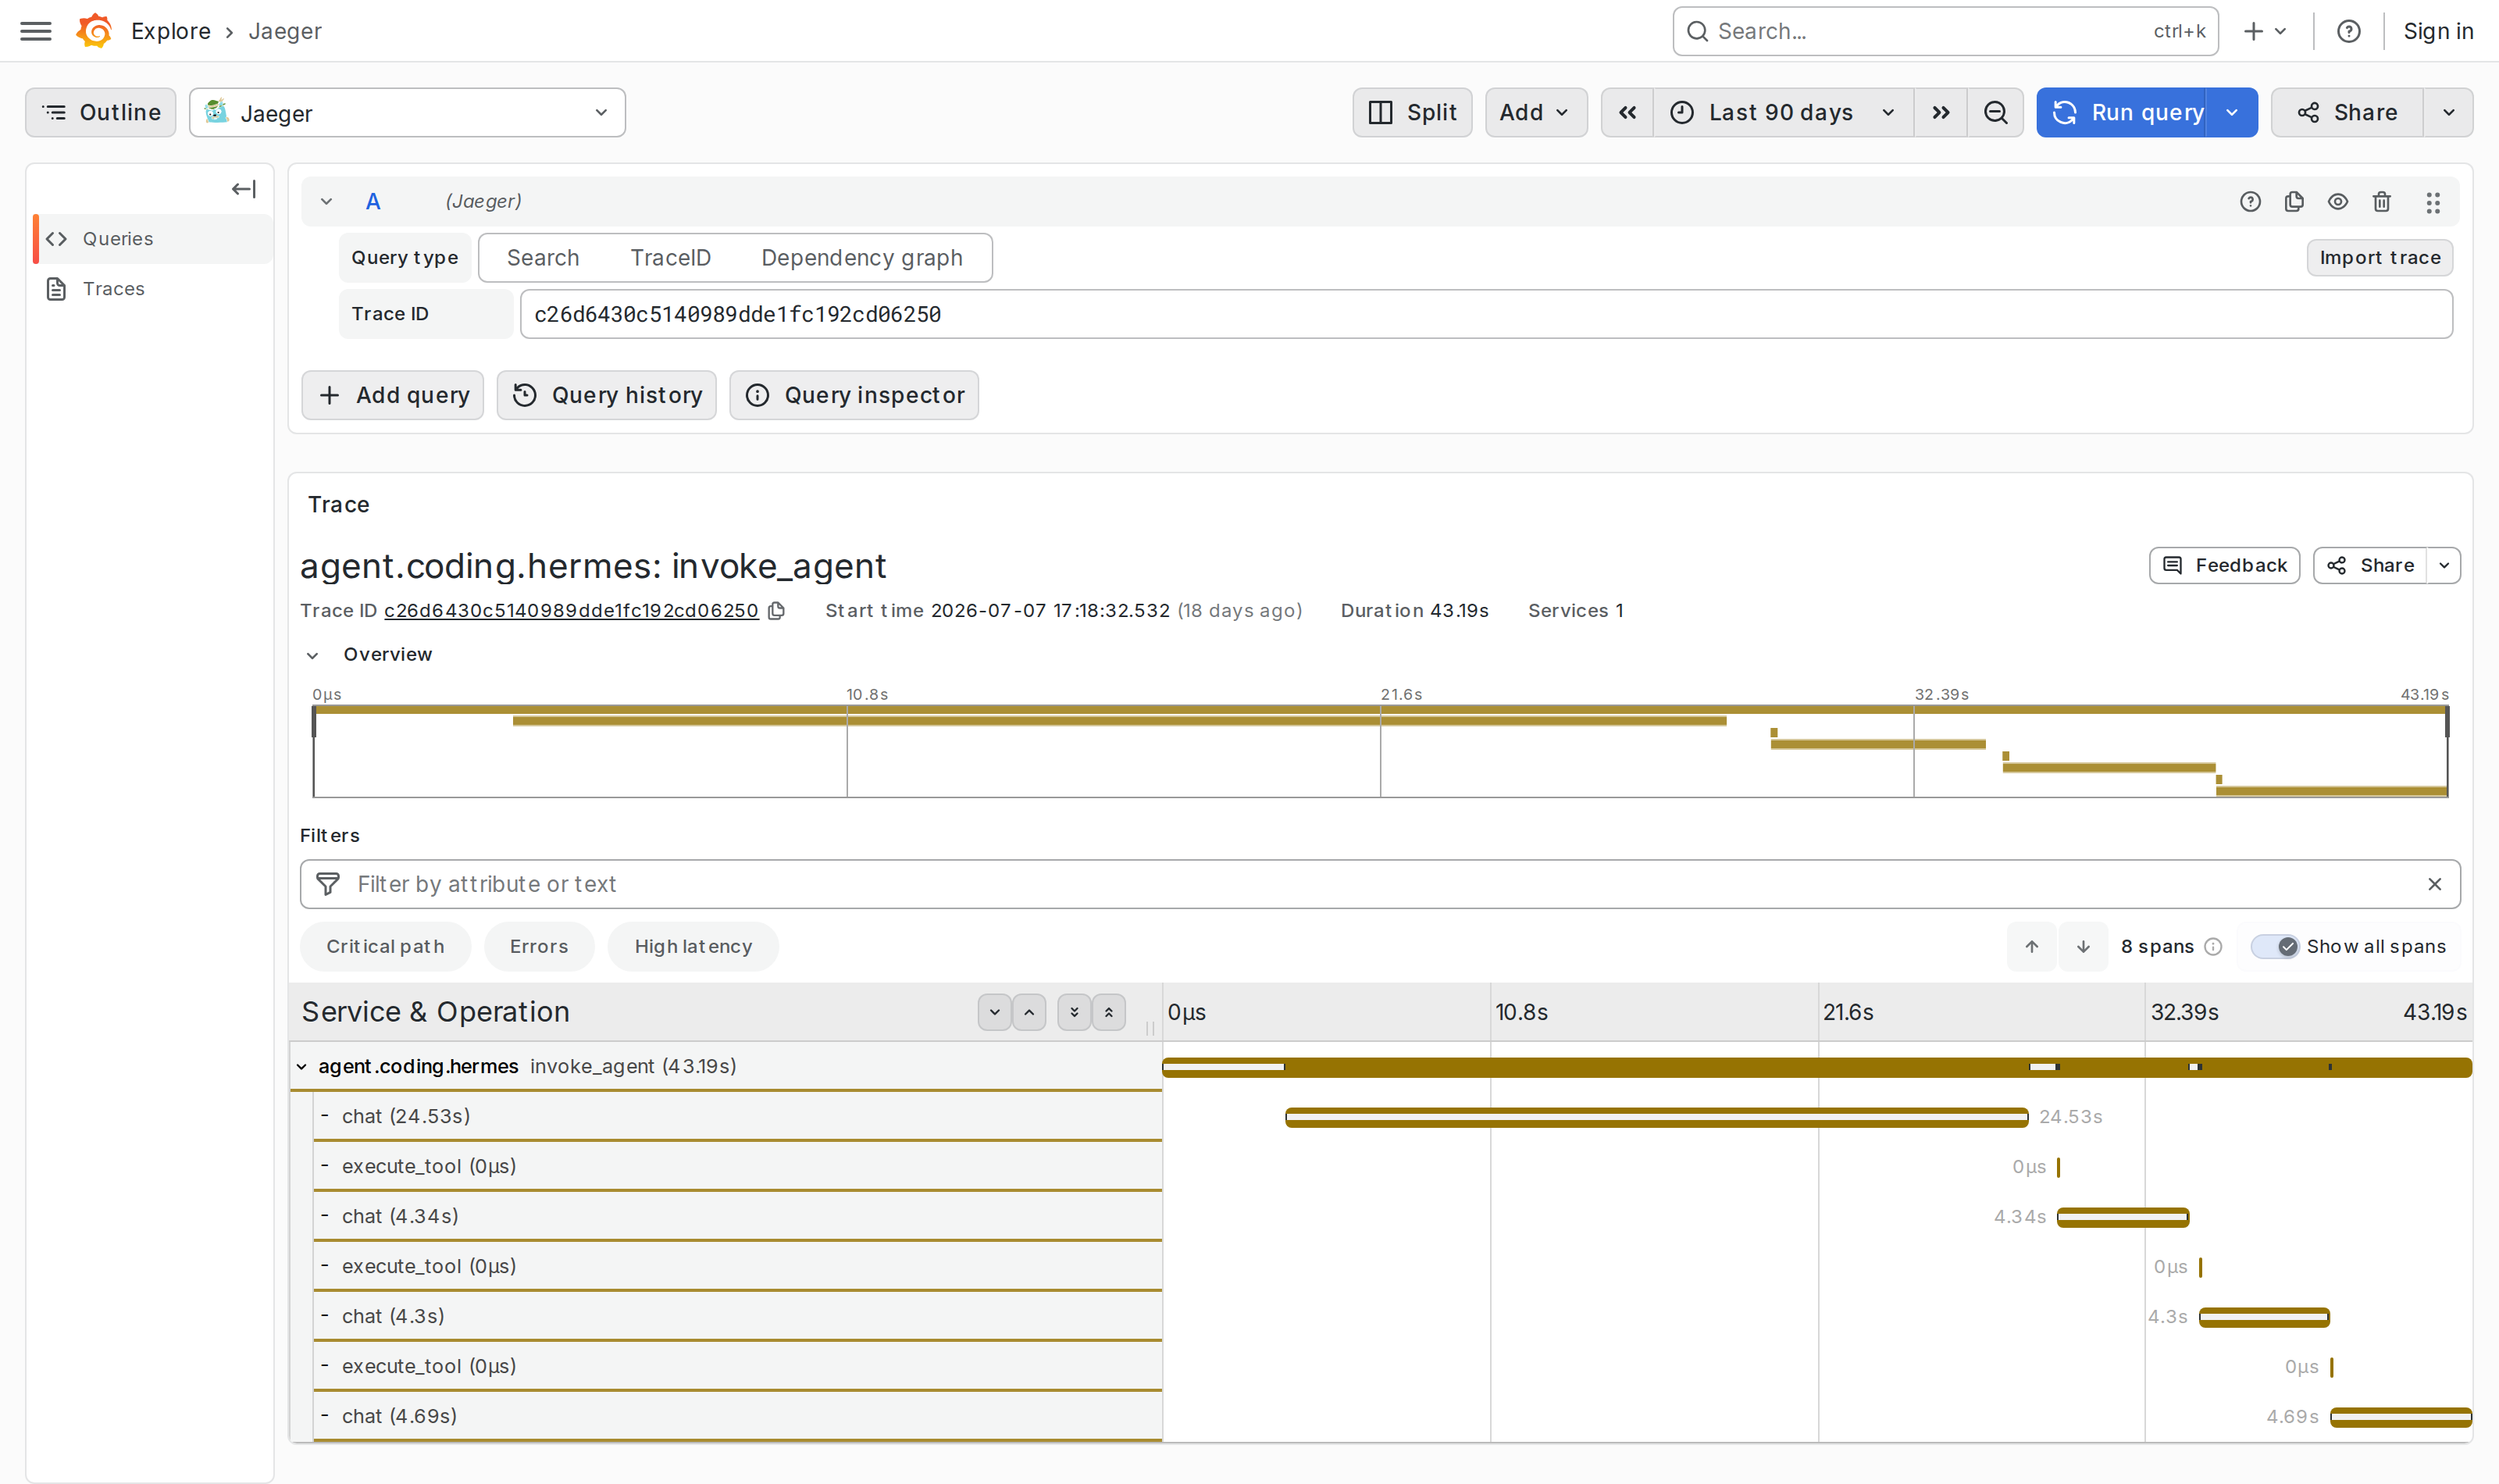
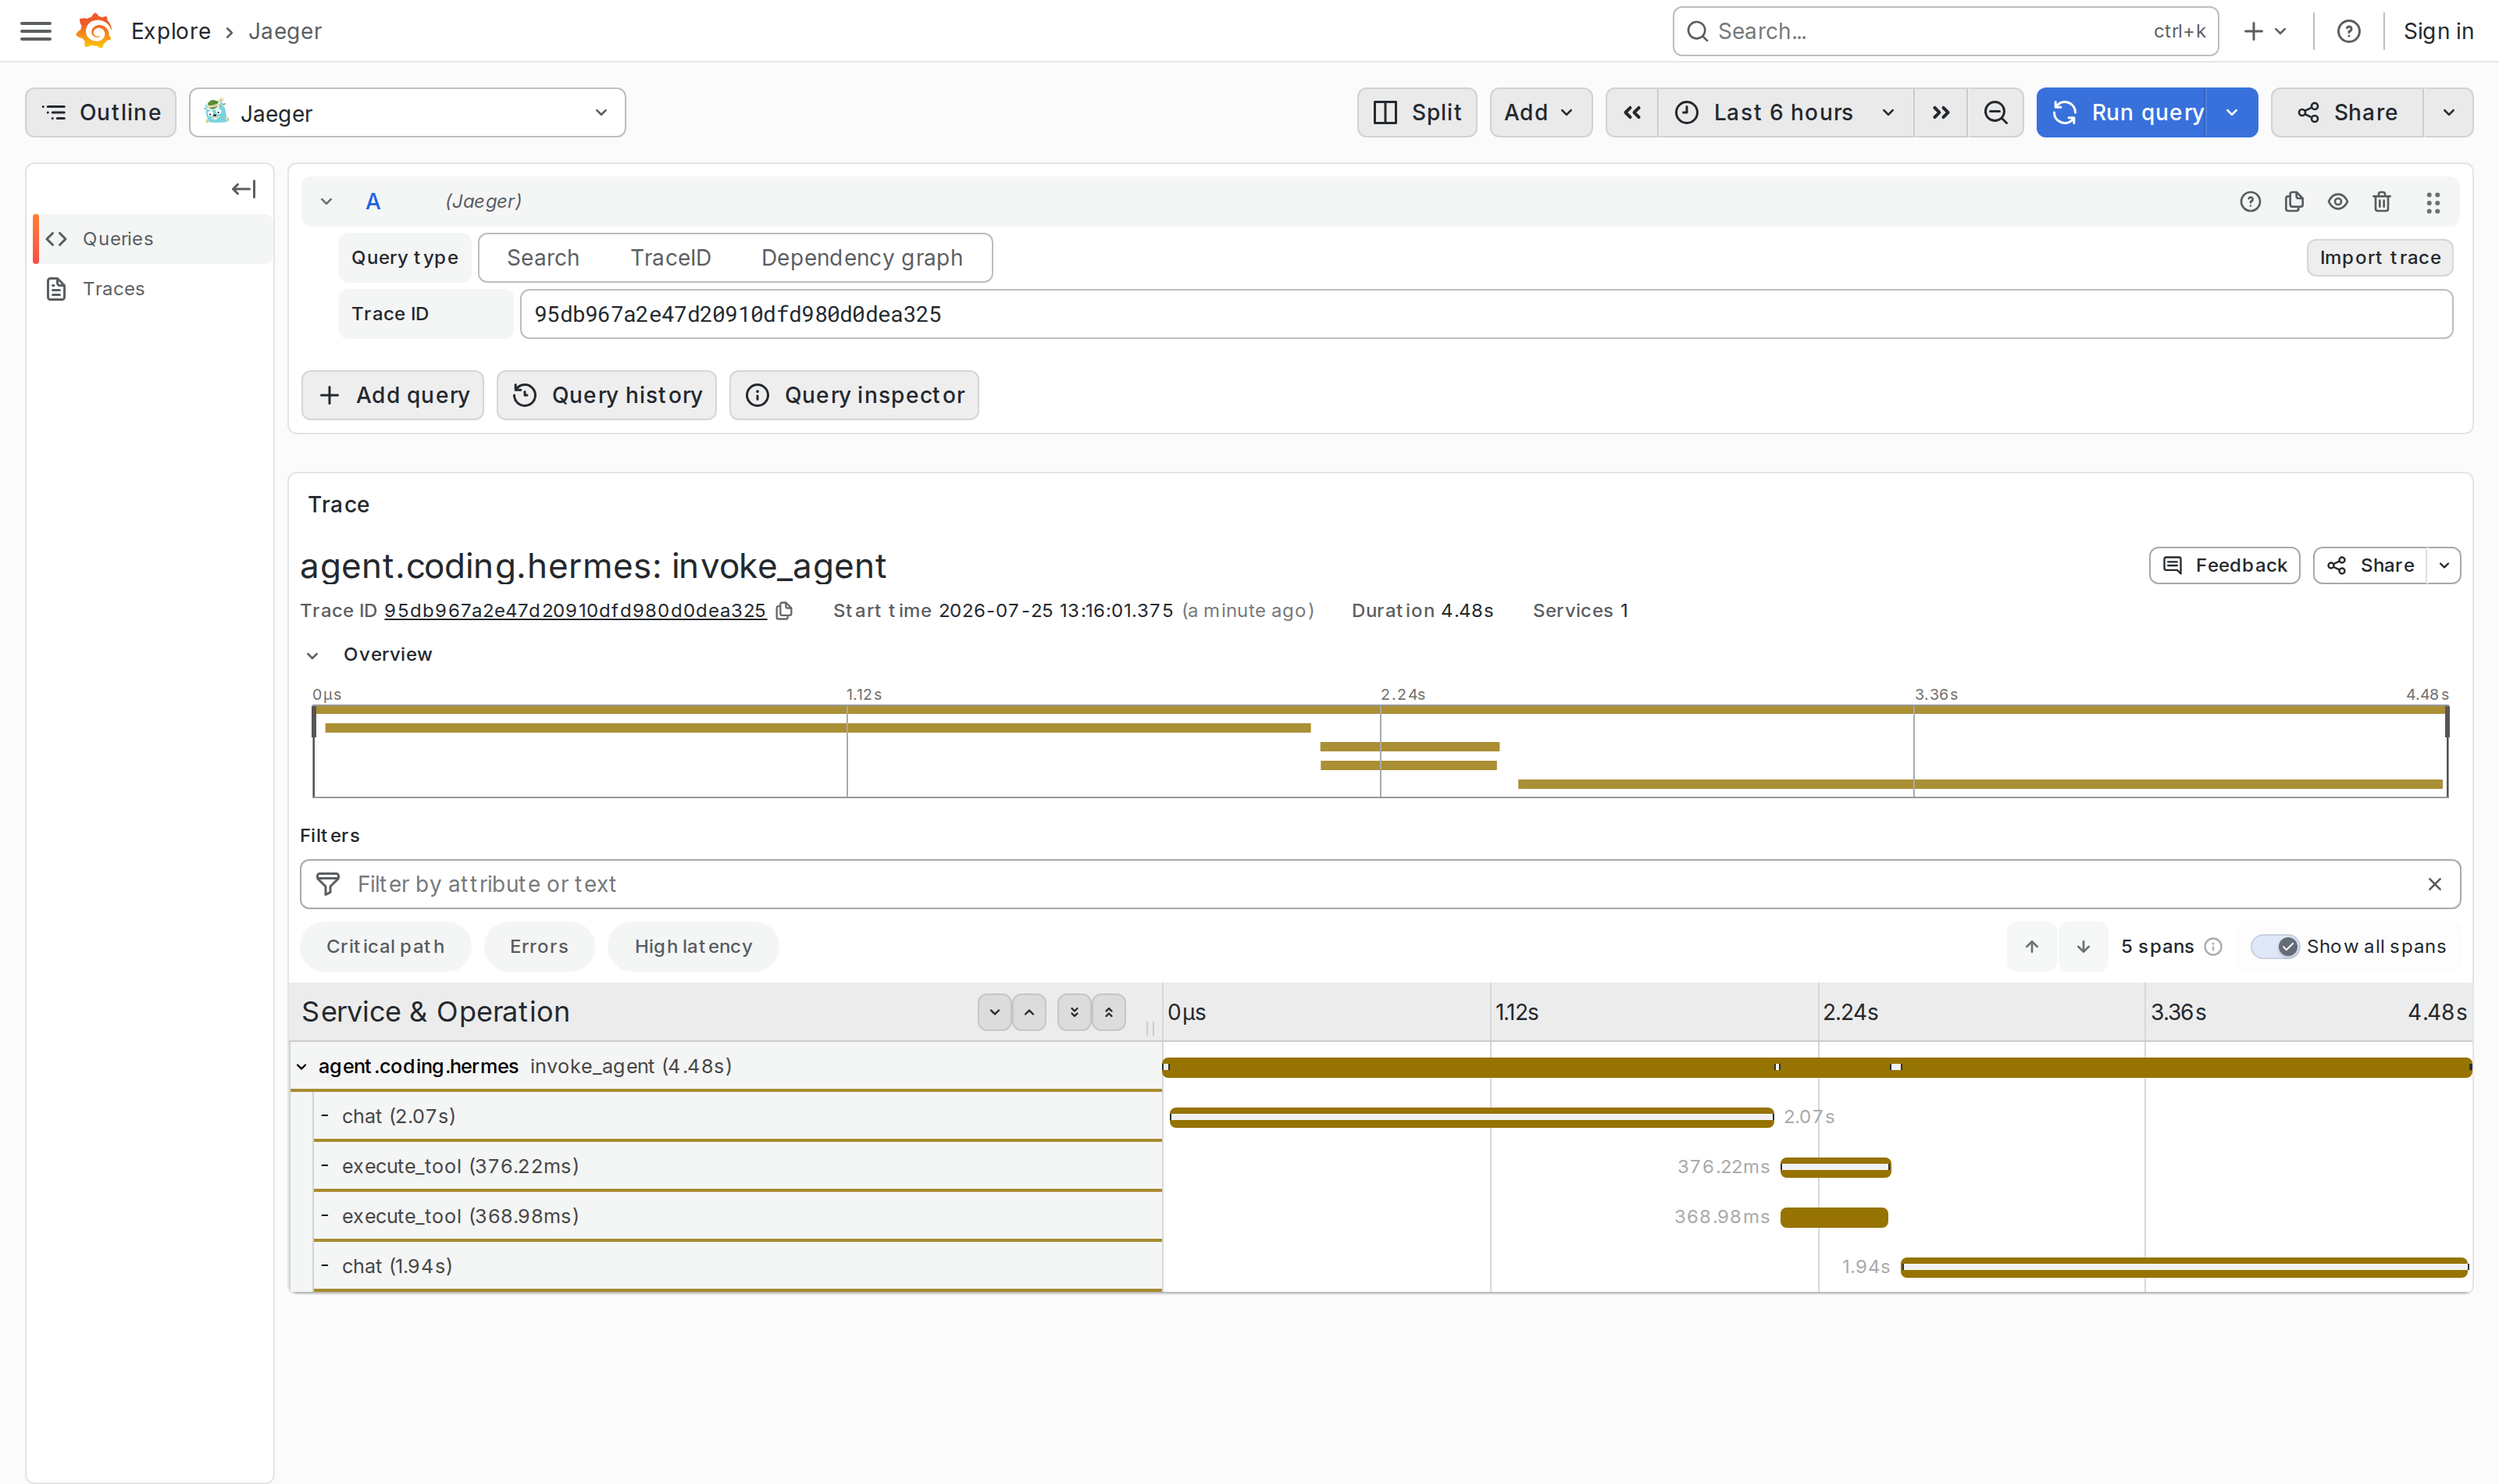
fix: force-flush pipelines at turn end — one-shot runs no longer lose spans (v1.1.1)
Hermes's -z CLI exits via os._exit() (hermes_cli/main.py), skipping
atexit and interpreter finalization — batch processors never got their
shutdown flush, so the invoke_agent span and late-turn chat/execute_tool
spans of a one-shot run were silently dropped. Validated live against
upstream Hermes v0.19.0: before the fix a -z run exported 3 of 5 spans
and no turn parent; after, the full turn arrives.

flush_all() is bounded (3s per pipeline), best-effort, fail-open.
README screenshots refreshed from the live v1.1.1 run (every span
carries a real measured duration, including two parallel tool calls).
44 tests.

diff --git a/provider.py b/provider.py
@@ -32,6 +32,40 @@ DEFAULT_SERVICE_NAME = "agent.coding.hermes"
 DEFAULT_OTLP_ENDPOINT = "http://localhost:4318"
 INSTRUMENTATION_SCOPE = "hermes.observability.otel"
 
+# Providers this module built, kept for turn-end force_flush. Hermes's one-shot
+# CLI (`hermes -z`) exits via os._exit(), which skips atexit and interpreter
+# finalization — batch processors never get their shutdown flush there, so any
+# span/record still queued at exit is silently lost (observed: invoke_agent and
+# late-turn chat spans missing from one-shot runs). flush_all() at turn end
+# puts each turn's telemetry on the wire while the process is still alive.
+_TRACER_PROVIDER: Any | None = None
+_LOGGER_PROVIDER: Any | None = None
+
+
+def flush_all(timeout_millis: int = 3000) -> None:
+    """Best-effort, bounded force-flush of the span + log pipelines.
+
+    Called by the plugin at turn end (``transform_llm_output`` / session end).
+    Never raises; a down endpoint costs at most ``timeout_millis`` per
+    pipeline. On the genai_otel path the tracer provider is the SDK global.
+    """
+    tracer_provider = _TRACER_PROVIDER
+    if tracer_provider is None:
+        try:
+            from opentelemetry import trace
+
+            tracer_provider = trace.get_tracer_provider()
+        except Exception:  # pragma: no cover - defensive
+            tracer_provider = None
+    for provider in (tracer_provider, _LOGGER_PROVIDER):
+        flush = getattr(provider, "force_flush", None)
+        if flush is None:
+            continue
+        try:
+            flush(timeout_millis)
+        except Exception:  # pragma: no cover - defensive
+            logger.debug("force_flush failed", exc_info=True)
+
 
 def build_tracer(
     *,
@@ -151,6 +185,8 @@ def _build_plain_otel(*, service_name: str, otlp_endpoint: str) -> Any:
             endpoint=otlp_endpoint.rstrip("/") + "/v1/traces"
         )
         provider.add_span_processor(BatchSpanProcessor(exporter))
+        global _TRACER_PROVIDER
+        _TRACER_PROVIDER = provider
         # Only set the global provider if one is not already configured, to
         # avoid clobbering a host application's tracing setup.
         current = trace.get_tracer_provider()
@@ -270,6 +306,8 @@ def build_logger(
         # OTLP HTTP logs endpoint convention is <endpoint>/v1/logs.
         exporter = OTLPLogExporter(endpoint=otlp_endpoint.rstrip("/") + "/v1/logs")
         provider.add_log_record_processor(BatchLogRecordProcessor(exporter))
+        global _LOGGER_PROVIDER
+        _LOGGER_PROVIDER = provider
         # Flush on interpreter exit. The span pipeline is flushed by Hermes'
         # shutdown path, but this LoggerProvider is ours alone — without an
         # explicit flush, late-turn records (api_response / tool_result emitted

diff --git a/__init__.py b/__init__.py
@@ -255,6 +255,7 @@ def _end_turn(**kwargs: Any) -> None:
         cm = _OPEN_TURNS.pop(session_id, None)
         _OPEN_TURN_SPANS.pop(session_id, None)
     _close_cm(cm)
+    _flush_turn()
 
 
 # on_session_end / on_session_finalize / on_session_reset all close the turn.
@@ -347,6 +348,7 @@ def on_transform_llm_output(**kwargs: Any) -> None:
     # End the turn span -> it exports immediately and the eval enricher runs on
     # this turn's prompt + response.
     _close_cm(cm)
+    _flush_turn()
 
 
 def _close_cm(cm: Any) -> None:
@@ -356,6 +358,24 @@ def _close_cm(cm: Any) -> None:
         cm.__exit__(None, None, None)
     except Exception:
         logger.debug("failed to close turn span", exc_info=True)
+
+
+def _flush_turn() -> None:
+    """Put the finished turn's spans + log records on the wire NOW.
+
+    Hermes's one-shot CLI (``hermes -z``) exits via ``os._exit()``, which
+    skips atexit and interpreter finalization — the batch processors never
+    get their shutdown flush, so any span still queued at exit is silently
+    lost (observed: ``invoke_agent`` and late-turn ``chat`` spans missing
+    from one-shot runs). Called after every turn close; bounded (3s max per
+    pipeline) and best-effort, never raises.
+    """
+    try:
+        from . import provider as _provider
+
+        _provider.flush_all()
+    except Exception:
+        logger.debug("turn-end flush failed", exc_info=True)
 
 
 def on_post_api_request(**kwargs: Any) -> None:

diff --git a/tests/test_otel_plugin.py b/tests/test_otel_plugin.py
@@ -759,3 +759,24 @@ class TestPluginAdapter:
         assert spans[OP_CHAT].attributes[
             "copilot_chat.time_to_first_token"
         ] == pytest.approx(2000.0)
+
+    def test_turn_end_force_flushes_pipelines(self, exporter_and_tracer, monkeypatch):
+        """``hermes -z`` exits via ``os._exit()`` (atexit is skipped), so the
+        turn-end flush is the only thing that puts late-turn spans on the wire
+        — without it the ``invoke_agent`` span and final ``chat`` spans of a
+        one-shot run are silently dropped from the batch queue."""
+        _exporter, tracer = exporter_and_tracer
+        plugin, provider = _fresh_plugin()
+        monkeypatch.setattr(provider, "build_tracer", lambda **_: tracer)
+        _log_exporter, otel_logger = _in_memory_logger()
+        monkeypatch.setattr(provider, "build_logger", lambda **_: otel_logger)
+        flushes: list[int] = []
+        monkeypatch.setattr(provider, "flush_all", lambda *a, **k: flushes.append(1))
+        ctx = _FakeCtx()
+        plugin.register(ctx)
+
+        ctx.hooks["pre_llm_call"](session_id="s", model="m", user_message="hi")
+        ctx.hooks["transform_llm_output"](session_id="s", response_text="done")
+        assert len(flushes) == 1  # turn close -> flush
+        ctx.hooks["on_session_end"](session_id="s")
+        assert len(flushes) == 2  # session end -> flush again

diff --git a/CHANGELOG.md b/CHANGELOG.md
@@ -4,6 +4,18 @@ All notable changes to this project are documented here. The format follows
 [Keep a Changelog](https://keepachangelog.com/en/1.1.0/); versions follow
 [Semantic Versioning](https://semver.org/).
 
+## [1.1.1] - 2026-07-25
+
+### Fixed
+- **One-shot runs no longer lose spans.** Hermes's `-z` CLI exits via
+  `os._exit()`, which skips `atexit` and interpreter finalization — the batch
+  processors never got their shutdown flush, so the `invoke_agent` span and
+  any late-turn `chat`/`execute_tool` spans of a one-shot run were silently
+  dropped from the export queue (validated live against Hermes v0.19.0). The
+  plugin now force-flushes both pipelines at every turn close
+  (`transform_llm_output`) and session end — bounded at 3s per pipeline,
+  best-effort, fail-open.
+
 ## [1.1.0] - 2026-07-25
 
 ### Added

diff --git a/README.md b/README.md
@@ -213,7 +213,7 @@ guarantees:
 
 ```bash
 pip install opentelemetry-sdk opentelemetry-exporter-otlp-proto-http pytest pyyaml ruff
-pytest tests/ -v       # 43 tests, in-memory exporters, no network
+pytest tests/ -v       # 44 tests, in-memory exporters, no network
 ruff check .
 ```
 
